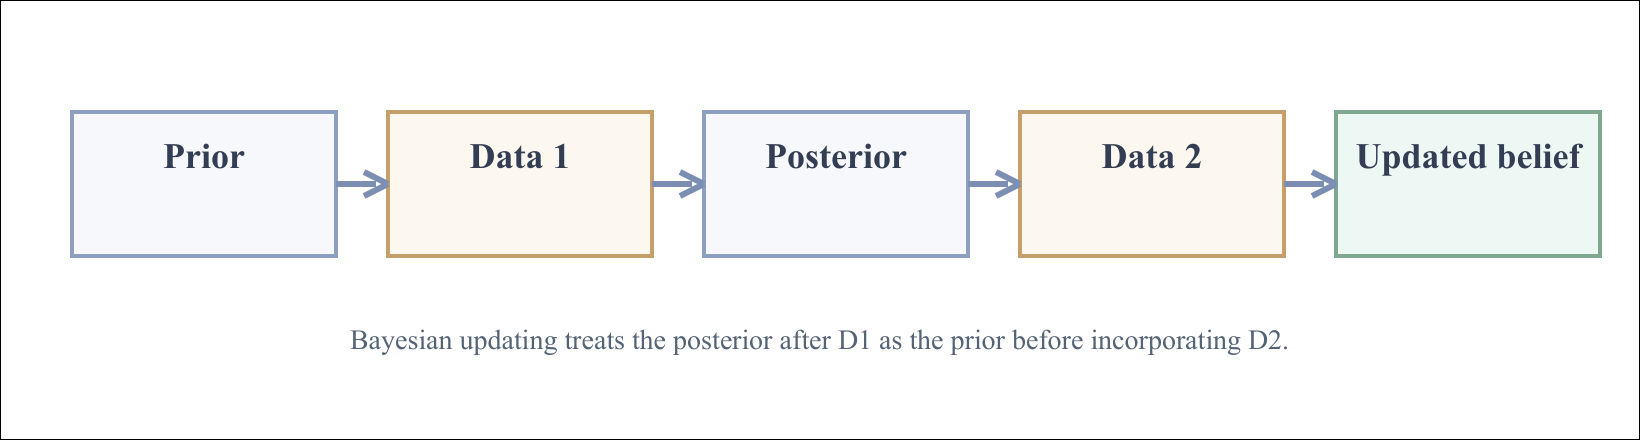
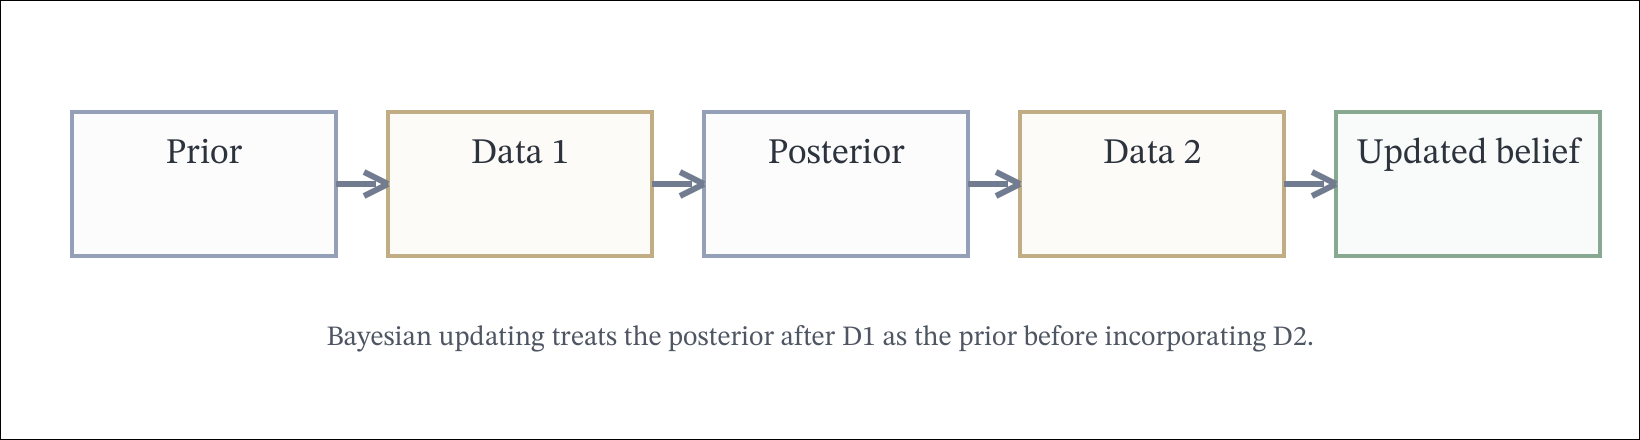
Use minimal STIX styling for native diagrams

diff --git a/scripts/notes/build_02_probability_reconstructed.py b/scripts/notes/build_02_probability_reconstructed.py
@@ -34,6 +34,21 @@ FONT_FILES = {
     "math": FONT_ARCHIVE_DIR / "Arial Unicode.ttf",
 }
 FONT_METRICS = {name: fitz.Font(fontfile=str(path)) for name, path in FONT_FILES.items()}
+DIAGRAM_FONT_FILES = {
+    "diagram": FONT_ARCHIVE_DIR / "STIXTwoText.ttf",
+    "diagrambold": FONT_ARCHIVE_DIR / "STIXTwoText.ttf",
+}
+
+DIAGRAM_TEXT = (0.18, 0.2, 0.24)
+DIAGRAM_SUBTEXT = (0.31, 0.34, 0.39)
+DIAGRAM_ARROW = (0.45, 0.49, 0.57)
+DIAGRAM_PANEL = (0.87, 0.89, 0.92)
+DIAGRAM_NEUTRAL_FILL = (0.989, 0.99, 0.992)
+DIAGRAM_NEUTRAL_STROKE = (0.58, 0.63, 0.72)
+DIAGRAM_WARM_FILL = (0.992, 0.988, 0.976)
+DIAGRAM_WARM_STROKE = (0.76, 0.68, 0.52)
+DIAGRAM_ACCENT_FILL = (0.974, 0.987, 0.978)
+DIAGRAM_ACCENT_STROKE = (0.53, 0.66, 0.57)
 
 INLINE_MATH_RE = re.compile(r"\$(.+?)\$")
 IMAGE_RE = re.compile(r"^!\[(?P<alt>[^\]]*)\]\((?P<path>[^)]+)\)\s*$")
@@ -445,8 +460,7 @@ def style_for(kind: str) -> tuple[str, float, float]:
 def new_page(doc: fitz.Document, page_num: int) -> fitz.Page:
     page = doc.new_page(width=PAGE_WIDTH, height=PAGE_HEIGHT)
     page.draw_rect(page.rect, fill=(1, 1, 1))
-    for alias, path in FONT_FILES.items():
-        page.insert_font(fontname=alias, fontfile=str(path))
+    insert_fonts(page)
     page.insert_text(
         fitz.Point(MARGIN_X, 28),
         f"{TITLE} ({SUBTITLE}) - page {page_num}",
@@ -456,6 +470,14 @@ def new_page(doc: fitz.Document, page_num: int) -> fitz.Page:
         color=(0.42, 0.48, 0.56),
     )
     return page
+
+
+def insert_fonts(page: fitz.Page, include_diagram: bool = False) -> None:
+    for alias, path in FONT_FILES.items():
+        page.insert_font(fontname=alias, fontfile=str(path))
+    if include_diagram:
+        for alias, path in DIAGRAM_FONT_FILES.items():
+            page.insert_font(fontname=alias, fontfile=str(path))
 
 
 def add_page(doc: fitz.Document, page_num: int) -> tuple[fitz.Page, float]:
@@ -915,41 +937,40 @@ def write_sequential_update_assets(assets_dir: Path) -> None:
     doc = fitz.open()
     page = doc.new_page(width=820, height=220)
     page.draw_rect(page.rect, fill=(1, 1, 1))
-    for alias, path in FONT_FILES.items():
-        page.insert_font(fontname=alias, fontfile=str(path))
+    insert_fonts(page, include_diagram=True)
 
     boxes = [
-        (36, 56, 168, 128, (0.965, 0.973, 0.988), (0.556, 0.631, 0.761), "Prior"),
-        (194, 56, 326, 128, (0.992, 0.973, 0.941), (0.773, 0.631, 0.416), "Data 1"),
-        (352, 56, 484, 128, (0.965, 0.973, 0.988), (0.556, 0.631, 0.761), "Posterior"),
-        (510, 56, 642, 128, (0.992, 0.973, 0.941), (0.773, 0.631, 0.416), "Data 2"),
-        (668, 56, 800, 128, (0.933, 0.969, 0.953), (0.494, 0.655, 0.561), "Updated belief"),
+        (36, 56, 168, 128, DIAGRAM_NEUTRAL_FILL, DIAGRAM_NEUTRAL_STROKE, "Prior"),
+        (194, 56, 326, 128, DIAGRAM_WARM_FILL, DIAGRAM_WARM_STROKE, "Data 1"),
+        (352, 56, 484, 128, DIAGRAM_NEUTRAL_FILL, DIAGRAM_NEUTRAL_STROKE, "Posterior"),
+        (510, 56, 642, 128, DIAGRAM_WARM_FILL, DIAGRAM_WARM_STROKE, "Data 2"),
+        (668, 56, 800, 128, DIAGRAM_ACCENT_FILL, DIAGRAM_ACCENT_STROKE, "Updated belief"),
     ]
     for x0, y0, x1, y1, fill, stroke, title in boxes:
         page.draw_rect(fitz.Rect(x0, y0, x1, y1), fill=fill, color=stroke, width=2)
         page.insert_textbox(
             fitz.Rect(x0, y0 + 12, x1, y1 - 10),
             title,
-            fontname="bodybold",
-            fontfile=str(FONT_FILES["bodybold"]),
+            fontname="diagrambold",
+            fontfile=str(DIAGRAM_FONT_FILES["diagrambold"]),
             fontsize=18,
-            color=(0.2, 0.24, 0.33),
+            color=DIAGRAM_TEXT,
             align=1,
         )
 
     arrow_y = 92
     for start_x, end_x in [(168, 194), (326, 352), (484, 510), (642, 668)]:
-        page.draw_line(fitz.Point(start_x, arrow_y), fitz.Point(end_x - 6, arrow_y), color=(0.49, 0.56, 0.7), width=3)
-        page.draw_line(fitz.Point(end_x - 12, arrow_y - 6), fitz.Point(end_x, arrow_y), color=(0.49, 0.56, 0.7), width=3)
-        page.draw_line(fitz.Point(end_x - 12, arrow_y + 6), fitz.Point(end_x, arrow_y), color=(0.49, 0.56, 0.7), width=3)
+        page.draw_line(fitz.Point(start_x, arrow_y), fitz.Point(end_x - 6, arrow_y), color=DIAGRAM_ARROW, width=3)
+        page.draw_line(fitz.Point(end_x - 12, arrow_y - 6), fitz.Point(end_x, arrow_y), color=DIAGRAM_ARROW, width=3)
+        page.draw_line(fitz.Point(end_x - 12, arrow_y + 6), fitz.Point(end_x, arrow_y), color=DIAGRAM_ARROW, width=3)
 
     page.insert_textbox(
         fitz.Rect(40, 162, 780, 194),
         "Bayesian updating treats the posterior after D1 as the prior before incorporating D2.",
-        fontname="body",
-        fontfile=str(FONT_FILES["body"]),
+        fontname="diagram",
+        fontfile=str(DIAGRAM_FONT_FILES["diagram"]),
         fontsize=14,
-        color=(0.33, 0.39, 0.46),
+        color=DIAGRAM_SUBTEXT,
         align=1,
     )
 
@@ -985,15 +1006,15 @@ def _draw_labeled_box(
     subtitle: str,
     fill: tuple[float, float, float],
     stroke: tuple[float, float, float],
-    title_color: tuple[float, float, float] = (0.19, 0.23, 0.31),
-    subtitle_color: tuple[float, float, float] = (0.28, 0.33, 0.41),
+    title_color: tuple[float, float, float] = DIAGRAM_TEXT,
+    subtitle_color: tuple[float, float, float] = DIAGRAM_SUBTEXT,
 ) -> None:
     page.draw_rect(rect, fill=fill, color=stroke, width=2)
     page.insert_textbox(
         fitz.Rect(rect.x0 + 8, rect.y0 + 8, rect.x1 - 8, rect.y0 + 34),
         title,
-        fontname="bodybold",
-        fontfile=str(FONT_FILES["bodybold"]),
+        fontname="diagrambold",
+        fontfile=str(DIAGRAM_FONT_FILES["diagrambold"]),
         fontsize=15,
         color=title_color,
         align=1,
@@ -1002,8 +1023,8 @@ def _draw_labeled_box(
         page.insert_textbox(
             fitz.Rect(rect.x0 + 10, rect.y0 + 36, rect.x1 - 10, rect.y1 - 8),
             subtitle,
-            fontname="body",
-            fontfile=str(FONT_FILES["body"]),
+            fontname="diagram",
+            fontfile=str(DIAGRAM_FONT_FILES["diagram"]),
             fontsize=10.5,
             color=subtitle_color,
             align=1,
@@ -1035,28 +1056,27 @@ def write_table_update_pipeline_assets(assets_dir: Path) -> None:
     doc = fitz.open()
     page = doc.new_page(width=920, height=230)
     page.draw_rect(page.rect, fill=(1, 1, 1))
-    for alias, path in FONT_FILES.items():
-        page.insert_font(fontname=alias, fontfile=str(path))
+    insert_fonts(page, include_diagram=True)
 
     boxes = [
-        (40, 54, 220, 142, "Full joint", "p(T,D,C)", (0.965, 0.973, 0.988), (0.556, 0.631, 0.761)),
-        (260, 54, 440, 142, "Restrict evidence", "keep rows with T = 1", (0.992, 0.973, 0.941), (0.773, 0.631, 0.416)),
-        (480, 54, 660, 142, "Marginalize", "sum over D", (0.965, 0.973, 0.988), (0.556, 0.631, 0.761)),
-        (700, 54, 880, 142, "Normalize", "obtain p(C | T = 1)", (0.933, 0.969, 0.953), (0.494, 0.655, 0.561)),
+        (40, 54, 220, 142, "Full joint", "all rows of the table", DIAGRAM_NEUTRAL_FILL, DIAGRAM_NEUTRAL_STROKE),
+        (260, 54, 440, 142, "Restrict evidence", "keep only rows with T = 1", DIAGRAM_WARM_FILL, DIAGRAM_WARM_STROKE),
+        (480, 54, 660, 142, "Marginalize", "sum over D", DIAGRAM_NEUTRAL_FILL, DIAGRAM_NEUTRAL_STROKE),
+        (700, 54, 880, 142, "Normalize", "turn the result into a posterior", DIAGRAM_ACCENT_FILL, DIAGRAM_ACCENT_STROKE),
     ]
     for x0, y0, x1, y1, title, subtitle, fill, stroke in boxes:
         _draw_labeled_box(page, fitz.Rect(x0, y0, x1, y1), title, subtitle, fill, stroke)
 
     for start_x, end_x in [(220, 260), (440, 480), (660, 700)]:
-        _draw_arrow(page, (start_x, 98), (end_x, 98), (0.49, 0.56, 0.7), width=3)
+        _draw_arrow(page, (start_x, 98), (end_x, 98), DIAGRAM_ARROW, width=3)
 
     page.insert_textbox(
         fitz.Rect(56, 166, 864, 204),
         "Table inference is an operator sequence: restrict to evidence, sum out hidden variables, then renormalize.",
-        fontname="body",
-        fontfile=str(FONT_FILES["body"]),
+        fontname="diagram",
+        fontfile=str(DIAGRAM_FONT_FILES["diagram"]),
         fontsize=13.5,
-        color=(0.33, 0.39, 0.46),
+        color=DIAGRAM_SUBTEXT,
         align=1,
     )
 
@@ -1092,13 +1112,12 @@ def write_indicator_product_assets(assets_dir: Path) -> None:
     doc = fitz.open()
     page = doc.new_page(width=980, height=290)
     page.draw_rect(page.rect, fill=(1, 1, 1))
-    for alias, path in FONT_FILES.items():
-        page.insert_font(fontname=alias, fontfile=str(path))
+    insert_fonts(page, include_diagram=True)
 
     boxes = [
-        (58, 56, 238, 154, "State: sun", "selected exponent = 0\nthis factor is turned off", (0.965, 0.973, 0.988), (0.556, 0.631, 0.761)),
-        (286, 56, 466, 154, "State: cloud", "selected exponent = 0\nthis factor is turned off", (0.965, 0.973, 0.988), (0.556, 0.631, 0.761)),
-        (514, 56, 694, 154, "State: rain", "selected exponent = 1\nthis factor stays active", (0.933, 0.969, 0.953), (0.494, 0.655, 0.561)),
+        (58, 56, 238, 154, "State: sun", "selected exponent = 0\nthis factor is turned off", DIAGRAM_NEUTRAL_FILL, DIAGRAM_NEUTRAL_STROKE),
+        (286, 56, 466, 154, "State: cloud", "selected exponent = 0\nthis factor is turned off", DIAGRAM_NEUTRAL_FILL, DIAGRAM_NEUTRAL_STROKE),
+        (514, 56, 694, 154, "State: rain", "selected exponent = 1\nthis factor stays active", DIAGRAM_ACCENT_FILL, DIAGRAM_ACCENT_STROKE),
     ]
     for x0, y0, x1, y1, title, subtitle, fill, stroke in boxes:
         _draw_labeled_box(page, fitz.Rect(x0, y0, x1, y1), title, subtitle, fill, stroke)
@@ -1109,21 +1128,21 @@ def write_indicator_product_assets(assets_dir: Path) -> None:
         product_rect,
         "Product form when X = rain",
         "off · off · on = 1 · 1 · 0.2 = 0.2",
-        (0.992, 0.973, 0.941),
-        (0.773, 0.631, 0.416),
+        DIAGRAM_WARM_FILL,
+        DIAGRAM_WARM_STROKE,
     )
 
-    _draw_arrow(page, (148, 154), (372, 196), (0.49, 0.56, 0.7), width=3)
-    _draw_arrow(page, (376, 154), (490, 196), (0.49, 0.56, 0.7), width=3)
-    _draw_arrow(page, (604, 154), (608, 196), (0.49, 0.56, 0.7), width=3)
+    _draw_arrow(page, (148, 154), (372, 196), DIAGRAM_ARROW, width=3)
+    _draw_arrow(page, (376, 154), (490, 196), DIAGRAM_ARROW, width=3)
+    _draw_arrow(page, (604, 154), (608, 196), DIAGRAM_ARROW, width=3)
 
     page.insert_textbox(
         fitz.Rect(84, 8, 896, 34),
         "Indicator exponents only mark which state was realized; they do not store probabilities.",
-        fontname="body",
-        fontfile=str(FONT_FILES["body"]),
+        fontname="diagram",
+        fontfile=str(DIAGRAM_FONT_FILES["diagram"]),
         fontsize=13.5,
-        color=(0.33, 0.39, 0.46),
+        color=DIAGRAM_SUBTEXT,
         align=1,
     )
 
@@ -1170,13 +1189,28 @@ def write_conditional_structure_assets(assets_dir: Path) -> None:
     doc = fitz.open()
     page = doc.new_page(width=960, height=320)
     page.draw_rect(page.rect, fill=(1, 1, 1))
-    for alias, path in FONT_FILES.items():
-        page.insert_font(fontname=alias, fontfile=str(path))
+    insert_fonts(page, include_diagram=True)
 
-    page.draw_rect(fitz.Rect(28, 24, 456, 290), color=(0.83, 0.87, 0.91), width=1.4)
-    page.draw_rect(fitz.Rect(504, 24, 932, 290), color=(0.83, 0.87, 0.91), width=1.4)
-    page.insert_textbox(fitz.Rect(40, 32, 444, 60), "Common Cause", fontname="bodybold", fontfile=str(FONT_FILES["bodybold"]), fontsize=18, color=(0.19, 0.23, 0.31), align=1)
-    page.insert_textbox(fitz.Rect(516, 32, 920, 60), "Explaining Away", fontname="bodybold", fontfile=str(FONT_FILES["bodybold"]), fontsize=18, color=(0.19, 0.23, 0.31), align=1)
+    page.draw_rect(fitz.Rect(28, 24, 456, 290), color=DIAGRAM_PANEL, width=1.4)
+    page.draw_rect(fitz.Rect(504, 24, 932, 290), color=DIAGRAM_PANEL, width=1.4)
+    page.insert_textbox(
+        fitz.Rect(40, 32, 444, 60),
+        "Common Cause",
+        fontname="diagrambold",
+        fontfile=str(DIAGRAM_FONT_FILES["diagrambold"]),
+        fontsize=18,
+        color=DIAGRAM_TEXT,
+        align=1,
+    )
+    page.insert_textbox(
+        fitz.Rect(516, 32, 920, 60),
+        "Explaining Away",
+        fontname="diagrambold",
+        fontfile=str(DIAGRAM_FONT_FILES["diagrambold"]),
+        fontsize=18,
+        color=DIAGRAM_TEXT,
+        align=1,
+    )
 
     left_nodes = {
         "Cavity": fitz.Rect(172, 78, 312, 136),
@@ -1184,16 +1218,16 @@ def write_conditional_structure_assets(assets_dir: Path) -> None:
         "Probe catch": fitz.Rect(278, 184, 418, 242),
     }
     for title, rect in left_nodes.items():
-        _draw_labeled_box(page, rect, title, "", (0.965, 0.973, 0.988), (0.556, 0.631, 0.761))
-    _draw_arrow(page, (242, 136), (136, 184), (0.49, 0.56, 0.7))
-    _draw_arrow(page, (242, 136), (348, 184), (0.49, 0.56, 0.7))
+        _draw_labeled_box(page, rect, title, "", DIAGRAM_NEUTRAL_FILL, DIAGRAM_NEUTRAL_STROKE)
+    _draw_arrow(page, (242, 136), (136, 184), DIAGRAM_ARROW)
+    _draw_arrow(page, (242, 136), (348, 184), DIAGRAM_ARROW)
     page.insert_textbox(
         fitz.Rect(54, 252, 430, 280),
         "Conditioning on the common cause blocks the path between symptoms.",
-        fontname="body",
-        fontfile=str(FONT_FILES["body"]),
+        fontname="diagram",
+        fontfile=str(DIAGRAM_FONT_FILES["diagram"]),
         fontsize=12.2,
-        color=(0.33, 0.39, 0.46),
+        color=DIAGRAM_SUBTEXT,
         align=1,
     )
 
@@ -1203,16 +1237,16 @@ def write_conditional_structure_assets(assets_dir: Path) -> None:
         "Warning light": fitz.Rect(648, 184, 788, 242),
     }
     for title, rect in right_nodes.items():
-        _draw_labeled_box(page, rect, title, "", (0.992, 0.973, 0.941), (0.773, 0.631, 0.416))
-    _draw_arrow(page, (606, 136), (700, 184), (0.49, 0.56, 0.7))
-    _draw_arrow(page, (830, 136), (736, 184), (0.49, 0.56, 0.7))
+        _draw_labeled_box(page, rect, title, "", DIAGRAM_WARM_FILL, DIAGRAM_WARM_STROKE)
+    _draw_arrow(page, (606, 136), (700, 184), DIAGRAM_ARROW)
+    _draw_arrow(page, (830, 136), (736, 184), DIAGRAM_ARROW)
     page.insert_textbox(
         fitz.Rect(528, 252, 908, 280),
         "After observing the effect, evidence for one cause lowers belief in the other.",
-        fontname="body",
-        fontfile=str(FONT_FILES["body"]),
+        fontname="diagram",
+        fontfile=str(DIAGRAM_FONT_FILES["diagram"]),
         fontsize=12.2,
-        color=(0.33, 0.39, 0.46),
+        color=DIAGRAM_SUBTEXT,
         align=1,
     )
 
@@ -1250,24 +1284,39 @@ def write_copula_flow_pipeline_assets(assets_dir: Path) -> None:
     doc = fitz.open()
     page = doc.new_page(width=980, height=360)
     page.draw_rect(page.rect, fill=(1, 1, 1))
-    for alias, path in FONT_FILES.items():
-        page.insert_font(fontname=alias, fontfile=str(path))
+    insert_fonts(page, include_diagram=True)
 
-    page.draw_rect(fitz.Rect(32, 24, 948, 160), color=(0.83, 0.87, 0.91), width=1.4)
-    page.draw_rect(fitz.Rect(32, 192, 948, 328), color=(0.83, 0.87, 0.91), width=1.4)
-    page.insert_textbox(fitz.Rect(40, 32, 940, 58), "Copula Pipeline", fontname="bodybold", fontfile=str(FONT_FILES["bodybold"]), fontsize=18, color=(0.19, 0.23, 0.31), align=1)
-    page.insert_textbox(fitz.Rect(40, 200, 940, 226), "Normalizing Flow Pipeline", fontname="bodybold", fontfile=str(FONT_FILES["bodybold"]), fontsize=18, color=(0.19, 0.23, 0.31), align=1)
+    page.draw_rect(fitz.Rect(32, 24, 948, 160), color=DIAGRAM_PANEL, width=1.4)
+    page.draw_rect(fitz.Rect(32, 192, 948, 328), color=DIAGRAM_PANEL, width=1.4)
+    page.insert_textbox(
+        fitz.Rect(40, 32, 940, 58),
+        "Copula Pipeline",
+        fontname="diagrambold",
+        fontfile=str(DIAGRAM_FONT_FILES["diagrambold"]),
+        fontsize=18,
+        color=DIAGRAM_TEXT,
+        align=1,
+    )
+    page.insert_textbox(
+        fitz.Rect(40, 200, 940, 226),
+        "Normalizing Flow Pipeline",
+        fontname="diagrambold",
+        fontfile=str(DIAGRAM_FONT_FILES["diagrambold"]),
+        fontsize=18,
+        color=DIAGRAM_TEXT,
+        align=1,
+    )
 
     top_boxes = [
-        (58, 72, 242, 132, "Observed data", "raw coordinates and marginals", (0.965, 0.973, 0.988), (0.556, 0.631, 0.761)),
-        (286, 72, 470, 132, "Marginal CDFs", "convert each coordinate to a percentile", (0.965, 0.973, 0.988), (0.556, 0.631, 0.761)),
-        (514, 72, 698, 132, "Gaussianize", "map percentiles to Gaussian scale", (0.965, 0.973, 0.988), (0.556, 0.631, 0.761)),
-        (742, 72, 926, 132, "Dependence model", "fit the copula after the transform", (0.965, 0.973, 0.988), (0.556, 0.631, 0.761)),
+        (58, 72, 242, 132, "Observed data", "raw coordinates and marginals", DIAGRAM_NEUTRAL_FILL, DIAGRAM_NEUTRAL_STROKE),
+        (286, 72, 470, 132, "Marginal CDFs", "convert each coordinate to a percentile", DIAGRAM_NEUTRAL_FILL, DIAGRAM_NEUTRAL_STROKE),
+        (514, 72, 698, 132, "Gaussianize", "map percentiles to Gaussian scale", DIAGRAM_NEUTRAL_FILL, DIAGRAM_NEUTRAL_STROKE),
+        (742, 72, 926, 132, "Dependence model", "fit the copula after the transform", DIAGRAM_NEUTRAL_FILL, DIAGRAM_NEUTRAL_STROKE),
     ]
     bottom_boxes = [
-        (132, 240, 316, 300, "Base density", "start from a simple latent distribution", (0.933, 0.969, 0.953), (0.494, 0.655, 0.561)),
-        (398, 240, 582, 300, "Invertible layers", "compose simple reversible transforms", (0.933, 0.969, 0.953), (0.494, 0.655, 0.561)),
-        (664, 240, 848, 300, "Complex density", "obtain a flexible observed distribution", (0.933, 0.969, 0.953), (0.494, 0.655, 0.561)),
+        (132, 240, 316, 300, "Base density", "start from a simple latent distribution", DIAGRAM_ACCENT_FILL, DIAGRAM_ACCENT_STROKE),
+        (398, 240, 582, 300, "Invertible layers", "compose simple reversible transforms", DIAGRAM_ACCENT_FILL, DIAGRAM_ACCENT_STROKE),
+        (664, 240, 848, 300, "Complex density", "obtain a flexible observed distribution", DIAGRAM_ACCENT_FILL, DIAGRAM_ACCENT_STROKE),
     ]
     for x0, y0, x1, y1, title, subtitle, fill, stroke in top_boxes:
         _draw_labeled_box(page, fitz.Rect(x0, y0, x1, y1), title, subtitle, fill, stroke)
@@ -1275,26 +1324,26 @@ def write_copula_flow_pipeline_assets(assets_dir: Path) -> None:
         _draw_labeled_box(page, fitz.Rect(x0, y0, x1, y1), title, subtitle, fill, stroke)
 
     for start_x, end_x in [(242, 286), (470, 514), (698, 742)]:
-        _draw_arrow(page, (start_x, 102), (end_x, 102), (0.49, 0.56, 0.7), width=3)
+        _draw_arrow(page, (start_x, 102), (end_x, 102), DIAGRAM_ARROW, width=3)
     for start_x, end_x in [(316, 398), (582, 664)]:
-        _draw_arrow(page, (start_x, 270), (end_x, 270), (0.49, 0.56, 0.7), width=3)
+        _draw_arrow(page, (start_x, 270), (end_x, 270), DIAGRAM_ARROW, width=3)
 
     page.insert_textbox(
         fitz.Rect(80, 140, 900, 156),
         "Copulas separate marginal shape from dependence by mapping through CDF space.",
-        fontname="body",
-        fontfile=str(FONT_FILES["body"]),
+        fontname="diagram",
+        fontfile=str(DIAGRAM_FONT_FILES["diagram"]),
         fontsize=12.5,
-        color=(0.33, 0.39, 0.46),
+        color=DIAGRAM_SUBTEXT,
         align=1,
     )
     page.insert_textbox(
         fitz.Rect(80, 308, 900, 324),
         "Flows compose simple invertible maps so exact likelihoods remain tractable.",
-        fontname="body",
-        fontfile=str(FONT_FILES["body"]),
+        fontname="diagram",
+        fontfile=str(DIAGRAM_FONT_FILES["diagram"]),
         fontsize=12.5,
-        color=(0.33, 0.39, 0.46),
+        color=DIAGRAM_SUBTEXT,
         align=1,
     )
 
